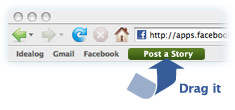
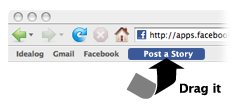
styling changes, index lists updated

Changed region(s): [[0.5362, 0.4364, 0.9532, 0.9]]

diff --git a/app/stylesheets/default_v3.sass b/app/stylesheets/default_v3.sass
@@ -1,6 +1,7 @@
 // CSS --------------------------------------------------- //
 // global ------------------------------ //
 body
+  background-color: $primary-bg-color
   color: $primary-body-color
   font-family: $primary-body-font
   font-size: $primary-body-size
@@ -10,18 +11,17 @@ body
 // headers
 h1, h2, h3, h4, h5, h6
   font-family: $primary-header-font
-  font-weight: normal
   line-height: $primary-line-height
   padding: 0
   margin: 0
-h1, h2
+h1, h2, h3, h4
   color: $primary-header-color
   a
     color: $primary-header-color
     &:hover
       color: scale-color($primary-header-color, $lightness:  -50%)
       text-decoration: none
-h3, h4, h5
+h5
   color: $secondary-header-color
   a
     color: $secondary-header-color
@@ -39,11 +39,14 @@ h3
   font-weight: bold
 h4
   font-size: $h4-size
+  font-weight: normal
 h5
   font-size: $h5-size
+  font-weight: normal
 h6
   color: $tertiary-header-color
   font-size: $h6-size
+  font-weight: normal
 // text
 a
   color: $primary-link-color
@@ -115,6 +118,8 @@ p
     height: $sponsor-height
     width: $sponsor-width
 
+
+
 // Primary Navigation
 #primary-navigation
   position: absolute
@@ -148,8 +153,9 @@ p
       // hover states
       &:hover
         > a
-          background-color: scale-color($primary-tab-off, $lightness: $tab-border-lightness)
+          background-color: scale-color($primary-tab-off, $lightness: -20%)
           position: relative
+          height: 22px
           z-index: 10
         > ul
           display: block
@@ -158,7 +164,8 @@ p
         padding: 8px 10px 0
       // dropdowns
       > ul
-        background-color: scale-color($primary-tab-off, $lightness: $tab-border-lightness)
+        background-color: scale-color($primary-tab-off, $lightness: -20%)
+        border: 1px solid scale-color($primary-tab-off, $lightness: $tab-border-lightness)
         box-shadow: $box-shadow
         display: none
         float: none
@@ -173,7 +180,7 @@ p
           padding: 0
           z-index: 20
           > a
-            color: $primary-tab-on 
+            color: $primary-tab-on
             display: block
             font-size: $primary-body-size
             padding: 5px 10px
@@ -216,7 +223,7 @@ p
     display: block
     font-weight: bold
     text-decoration: none
-    text-shadow: 1px 1px 1px $primary-border-color
+    text-shadow: 1px 1px 1px scale-color($primary-tab-off, $lightness: -40%)
     &.selected
       border: 1px solid scale-color($primary-tab-off, $lightness: $tab-border-lightness)
       border-bottom-width: 0
@@ -228,10 +235,10 @@ p
         background-color: $primary-tab-on
         text-decoration: none
     &:hover
-      background-color: scale-color($primary-tab-off, $lightness: $tab-border-lightness)
+      background-color: scale-color($primary-tab-off, $lightness: -20%)
 
 
-
+// Header actions bar
 #header-actions
   background: image_url("site/bg-hdr-actions.png") top left repeat-y
   padding: 10px 10px 10px 80px
@@ -240,6 +247,18 @@ p
   right: 0px
   .pipe
     margin: 0 4px
+  .meta-search
+    border: 1px solid $secondary-bg-color
+    padding: 2px 9px
+    width: 68px
+  .meta-search, .meta-submit
+    font-size: $primary-body-size - 1px
+    float: left
+    margin-top: -2px
+  #cse-search-box
+    float: left
+    margin: 0px 10px 0px 0px
+
 .account-dropdown
   float: left
   position: relative
@@ -265,6 +284,7 @@ p
       .profile-pic
         float: left
         margin-left: -50px
+
 
 
 
@@ -303,7 +323,7 @@ p
 // Shared Classes ---------------------- //
 // Panel Bar
 .panel-bar
-  border-bottom: 1px solid $secondary-border-color
+  border-bottom: 1px solid $primary-border-color
   padding: 4px 0 0 0
   position: relative
   bottom: -1px
@@ -327,7 +347,7 @@ p
 
 // Profile Pics
 .profile-pic
-  border: 1px solid scale-color($primary-bg-color, $lightness: -30%)
+  border: 1px solid scale-color($tertiary-bg-color, $lightness: -20%)
   width: 38px
   height: 38px
   position: relative
@@ -360,9 +380,9 @@ p
 
 // Subtitle
 .subtitle
-  border: 1px solid scale-color($tertiary-bg-color, $lightness: -20%)
   background-color: $tertiary-bg-color
-  color: $tertiary-body-color
+  border: 1px solid scale-color($tertiary-bg-color, $lightness: -20%)
+  color: 1px solid scale-color($tertiary-bg-color, $lightness: -30%)
   padding: 8px 
 
 // Single Item
@@ -509,7 +529,7 @@ p
       h1, h2, h3, h4, h5, h6, p,
         color: #FFF
         margin-bottom: 0
-        text-shadow: 0px 0px 4px #000
+        text-shadow: 0px 0px 2px #000
         a
           color: #FFF
 
@@ -529,11 +549,10 @@ p
 // Full Column ------------------------- //
 #full-col
   +grid(12)
+  margin-bottom: $ninesixty_gutter_width * 2
   .panel-3
     margin-left: 0
     margin-right: 0
-
-// Three Column Widgets
 
 
 // Left Column ------------------------- //
@@ -622,20 +641,23 @@ p
 
 // Gallery
 .gallery-content
-  padding-top: $ninesixty_gutter_width / 2
   li
     +grid(2)
-    margin-bottom: $ninesixty_gutter_width
+    padding-top: $ninesixty_gutter_width / 2
     img
       width: 100%
     &.hide-strong
       display: none
   .single-gallery-item
+    padding-top: $ninesixty_gutter_width / 2
     +grid(4)
     +alpha()
     +omega()
     img
       width: 100%
+.panel-2
+  .gallery-content
+    margin-bottom: $ninesixty_gutter_width
 
 // bio widget
 .bio, .user-bio-wrap
@@ -694,6 +716,7 @@ p
       height: 31px
       margin: 0 5px 10px
       > .profile-pic
+        border-color: scale-color($tertiary-bg-color, $lightness: -30%)
         height: 30px
         width: 30px
   // bio widget
@@ -760,21 +783,73 @@ p
     bottom: $ninesixty_gutter_width
     z-index: 10
 
-// Buttons (Button styling for links only)
+// button for links
+.button-link, .button-input
+  border-width: 1px
+  border-style: solid
+  -webkit-border-radius: 4px
+  -moz-border-radius: 4px
+  border-radius: 4px
+
 .button-link
+  background-color: $primary-btn
+  border-top-color: scale-color($primary-btn, $lightness: -30%)
+  border-left-color: scale-color($primary-btn, $lightness: -30%)
+  border-right-color: scale-color($primary-btn, $lightness: -50%)
+  border-bottom-color: scale-color($primary-btn, $lightness: -50%)
+  color: #FFF
   display: inline-block
-  padding: 5px 10px
-  border: 1px solid scale-color($primary-btn, $lightness: -30%)
-  background: $primary-btn image_url("site/btn-gradient.png") top left repeat-x
-  color: $primary-bg-color
   font-size: $primary-body-size + 2
+  font-weight: bold
   line-height: $primary-body-size +2
-  text-shadow: -1px -1px 1px 1px scale-color($primary-btn, $lightness: -40%)
+  padding: 5px 10px
+  text-shadow: -1px -1px 1px scale-color($primary-btn, $lightness: -50%), 1px 1px 1px scale-color($primary-btn, $lightness: 20%)
   &:hover
-    color: $primary-bg-color
-    background: scale-color($primary-btn, $lightness: -40%) image_url("site/btn-gradient.png") top left repeat-x
+    background-color: scale-color($primary-btn, $lightness: -20%)
+    color: #FFF
     text-decoration: none
-    text-shadow: -1px -1px 1px 0px $primary-btn
+// button for inputs/forms
+.button-input
+  background-color: $primary-btn
+  border-top-color: scale-color($primary-btn, $lightness: -30%)
+  border-left-color: scale-color($primary-btn, $lightness: -30%)
+  border-right-color: scale-color($primary-btn, $lightness: -50%)
+  border-bottom-color: scale-color($primary-btn, $lightness: -50%)
+  color: #FFF
+  display: inline-block
+  font-size: $primary-body-size + 2
+  font-weight: bold
+  line-height: $primary-body-size +2
+  padding: 5px 10px
+  text-shadow: -1px -1px 1px scale-color($primary-btn, $lightness: -50%), 1px 1px 1px scale-color($primary-btn, $lightness: 20%)
+  &:hover
+    background-color: scale-color($primary-btn, $lightness: -20%)
+  // next button colors
+  &.next
+    background-color: $secondary-btn
+    border-top-color: scale-color($secondary-btn, $lightness: -30%)
+    border-left-color: scale-color($secondary-btn, $lightness: -30%)
+    border-right-color: scale-color($secondary-btn, $lightness: -50%)
+    border-bottom-color: scale-color($secondary-btn, $lightness: -50%)
+    text-shadow: -1px -1px 1px scale-color($secondary-btn, $lightness: -50%), 1px 1px 1px scale-color($secondary-btn, $lightness: 20%)
+    &:hover
+      background-color: scale-color($secondary-btn, $lightness: -20%)
+  // prev button colors
+  &.prev
+    background-color: $tertiary-btn
+    border-top-color: scale-color($tertiary-btn, $lightness: -30%)
+    border-left-color: scale-color($tertiary-btn, $lightness: -30%)
+    border-right-color: scale-color($tertiary-btn, $lightness: -50%)
+    border-bottom-color: scale-color($tertiary-btn, $lightness: -50%)
+    text-shadow: -1px -1px 1px scale-color($tertiary-btn, $lightness: -50%), 1px 1px 1px scale-color($tertiary-btn, $lightness: 20%)
+    &:hover
+      cursor: pointer
+      background-color: scale-color($tertiary-btn, $lightness: -20%)
+      text-decoration: none
+.button-input, .button-input.next, .button-input.prev
+  &:hover
+    cursor: pointer
+    text-decoration: none
 
 // Comment Rating Buttons
 .thumb-up, .thumb-down, .likes-tally

diff --git a/app/stylesheets/skin.sass b/app/stylesheets/skin.sass
@@ -9,7 +9,6 @@ $secondary-bg-color: #3B5998
 $tertiary-bg-color: #F1F1F1
 // Border Colors
 $primary-border-color: #253E72
-$secondary-border-color: #6078A9
 // Header Colors
 $primary-header-color: #000
 $secondary-header-color: #3B5998
@@ -22,15 +21,14 @@ $tertiary-body-color: #777
 $primary-link-color: #2462E2 
 $secondary-link-color: #2462E2 
 $tertiary-link-color: #2462E2 
-$link-hover-lightness: -50%
 // Tab Colors
 $primary-tab-off: #3B5998
 $primary-tab-on: #FFFFFF
 $tab-border-lightness: -35%
 // Button Colors
 $primary-btn: #3B5998
-$secondary-btn: #3B5998
-$tertiary-btn: #3B5998
+$secondary-btn: #428519
+$tertiary-btn: #666
 
 // Fonts & Text Sizes --------------------- //
 // Header Font

diff --git a/app/stylesheets/formtastic.sass b/app/stylesheets/formtastic.sass
@@ -25,14 +25,13 @@ form.formtastic
         font-weight: bold
     // fieldset.buttons
     &.buttons
+      border-top: 1px solid #CCC
       display: inline-block
       width: 100%
       margin-bottom: $ninesixty_gutter_width / 2
-      .commit
-        float: right
-      input
+      padding-top: $ninesixty_gutter_width / 2
+      li.commit
         width: auto
-        text-align: right
     // for use in admin
     ol
       > li
@@ -51,7 +50,10 @@ form.formtastic
         &.error
           label
             color: #CC0000
-
+        &.file, &.boolean
+          input
+            border: 0
+            height: auto
         label
           display: block
           margin: 6px

diff --git a/app/stylesheets/default.sass b/app/stylesheets/default.sass
@@ -992,7 +992,7 @@ h3.btn
       text-decoration: none
 
 
-.btn, .form-btn
+.btn, .button-input
   padding: 3px 10px 4px 10px
   line-height: 100%
   display: inline-block
@@ -1015,10 +1015,10 @@ h3.btn
     &:hover
       background: image_url("default/disabled-btn.gif") top left repeat-x
 
-.form-btn
-  background: image_url("default/form-btn-off.png") top left repeat-x
+.button-input
+  background: image_url("default/button-input-off.png") top left repeat-x
   &:hover
-    background: image_url("default/form-btn-on.png") top left repeat-x
+    background: image_url("default/button-input-on.png") top left repeat-x
 
 /* ACTION LINKS */
 

diff --git a/app/stylesheets/default_v2.sass b/app/stylesheets/default_v2.sass
@@ -83,7 +83,7 @@ p
   .panel-1, .panel-1
     margin-left: 0
     margin-right: 0
-#full-col, #col_full
+#full-col, #full-col
   +grid(12)
   .panel-3, .panel-3
     margin-left: 0
